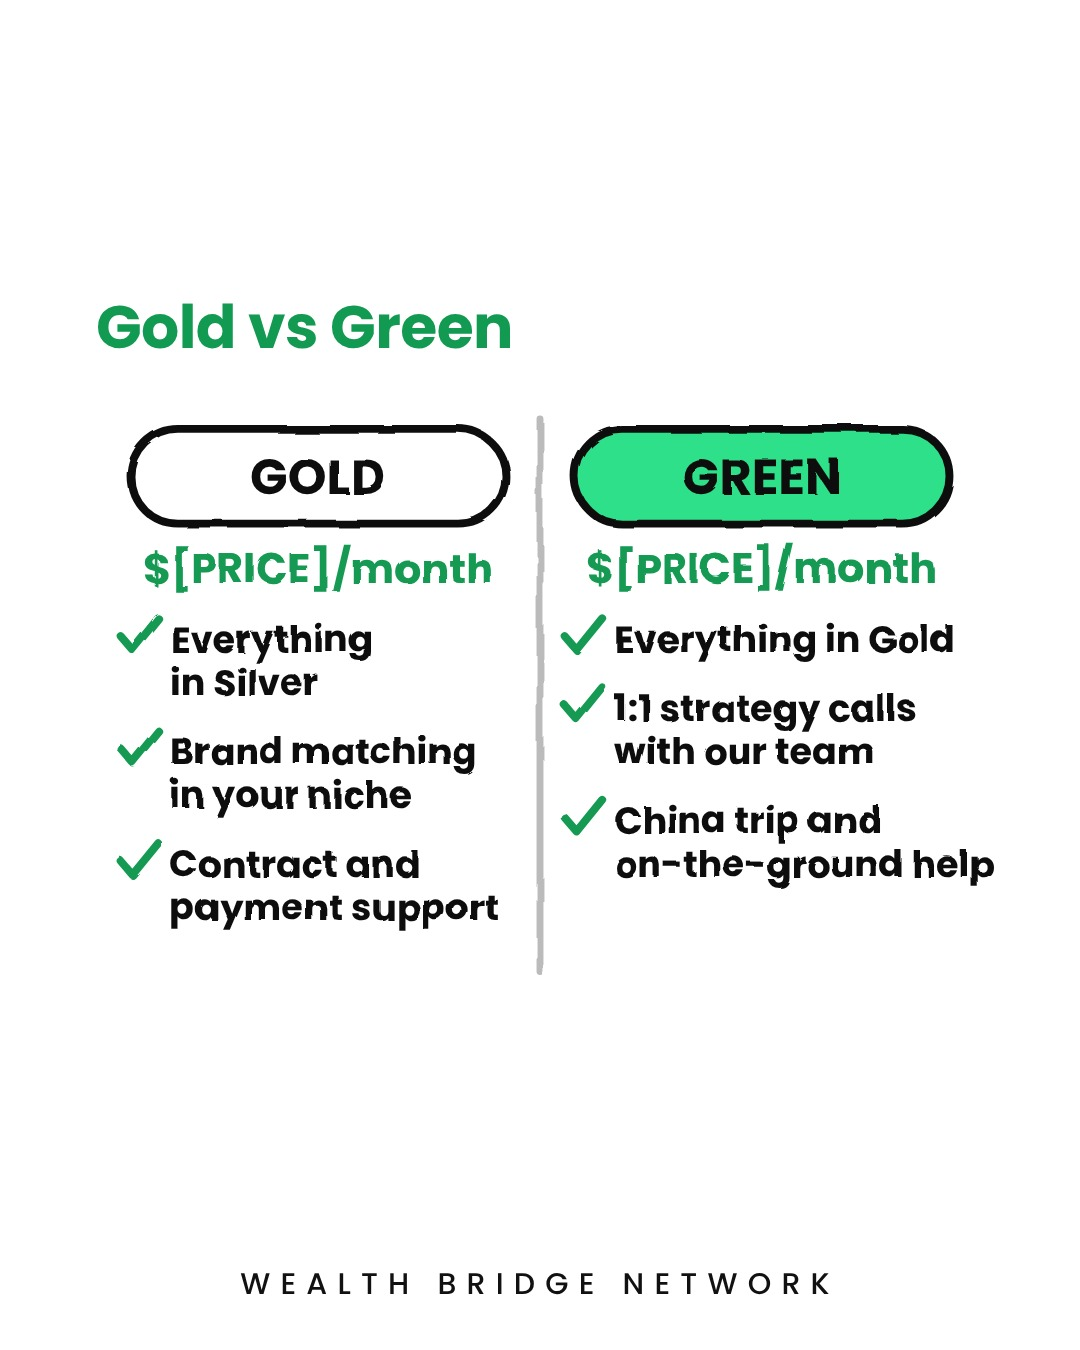
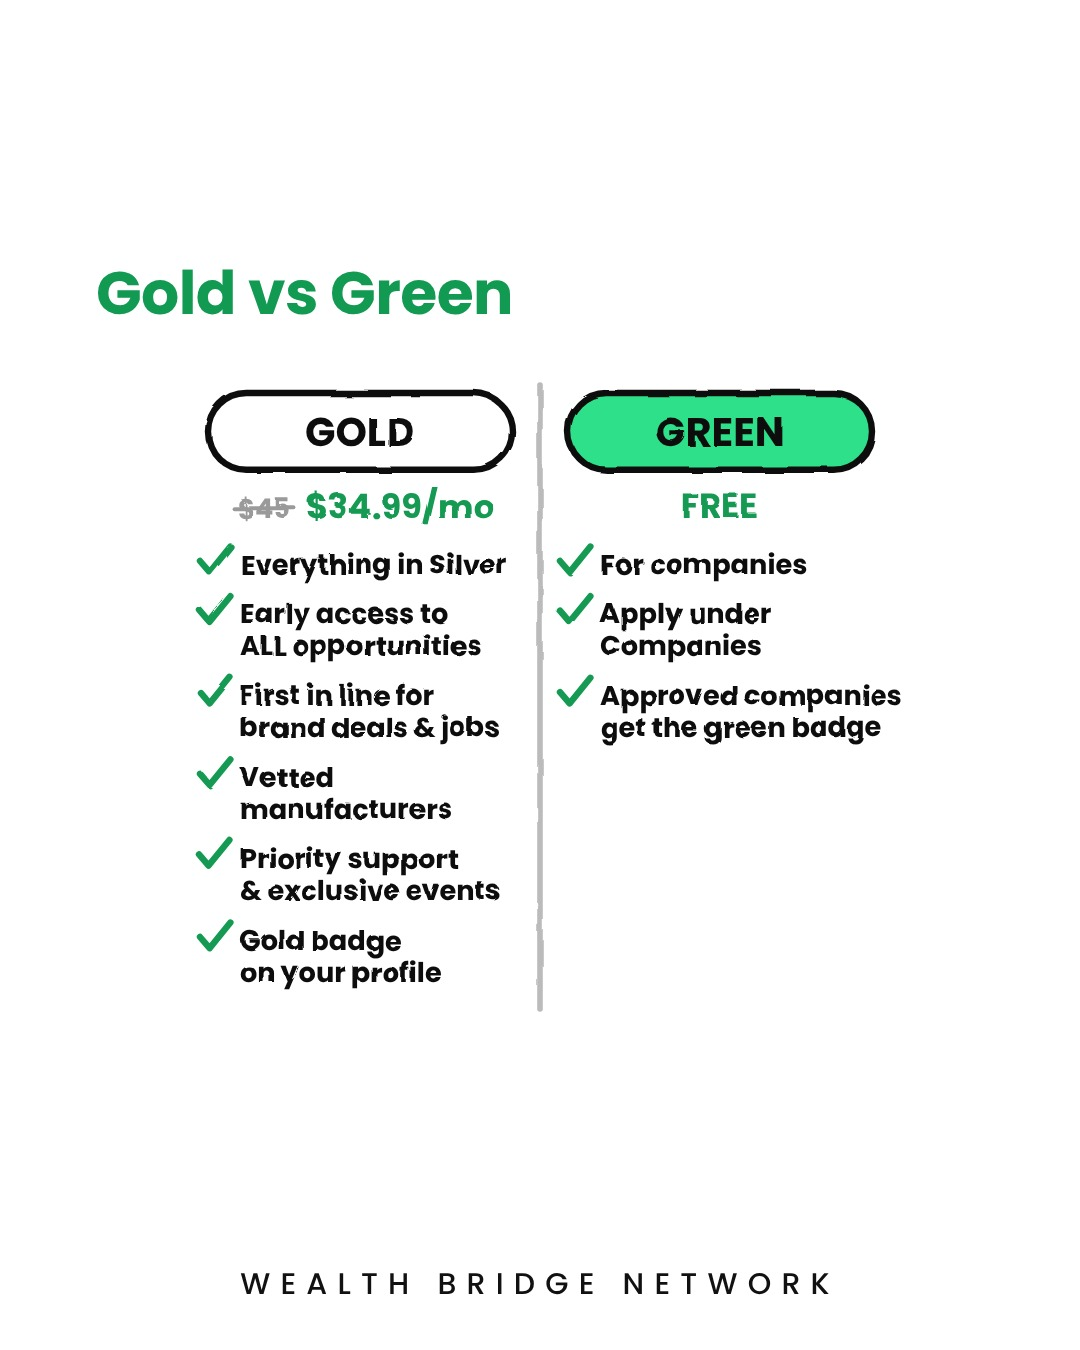
Membership carousel: real Silver/Gold prices and perks, Green for companies
Claude-Session: https://claude.ai/code/session_01XWHiAw1FC92SEhPtnn4Xv2

Changed region(s): [[0.0917, 0.1867, 0.9167, 0.7467], [0.4889, 0.7156, 0.5194, 0.7467]]

diff --git a/content/membership.py b/content/membership.py
@@ -1,5 +1,5 @@
 # Membership carousel (Free, Silver, Gold, Green) in the doodle storytelling format.
-# Split-screen slides compare two tiers side by side. DRAFT: prices/perks marked [PRICE] are placeholders.
+# Split-screen slides compare two tiers side by side. Prices/perks from admin.wbn.world/membership (Nov 27, 2026).
 # Render: python3 scripts/render_doodle.py content/membership.py $PWD/posts/
 import sys
 from pathlib import Path
@@ -12,30 +12,34 @@ from china_stories import caption, cta, G
 MINT = "#2FE08A"
 
 
-def column(cx, name, price, perks, fill="#fff"):
-    """One half of the split screen: tier pill, price, perk lines with check bullets."""
+def column(cx, name, price, perks, fill="#fff", old=None):
+    """One half of the split screen: tier pill, price (optional struck-out old price), perk lines."""
     b = f'<rect x="{cx-190}" y="10" width="380" height="96" rx="48" fill="{fill}" stroke="{INK}" stroke-width="8"/>'
     b += _t(cx, 76, name.upper(), 50, 900)
-    b += _t(cx, 166, price, 42, 800, G)
+    if old:
+        b += _t(cx - 120, 166, old, 34, 700, "#9A9A9A") + _p(f"M{cx-158},154 L{cx-82},154", 5, color="#9A9A9A")
+        b += _t(cx + 50, 166, price, 42, 800, G)
+    else:
+        b += _t(cx, 166, price, 42, 800, G)
     y = 236
     for p in perks:
         lines = p.split("\n")
         b += _p(f"M{cx-200},{y-16} l12,14 l26,-32", 8, color=G)
         for k, ln in enumerate(lines):
-            b += _t(cx - 150, y + 44 * k, ln, 37, 600, anchor="start")
-        y += 44 * len(lines) + 26
+            b += _t(cx - 150, y + 40 * k, ln, 34, 600, anchor="start")
+        y += 40 * len(lines) + 22
     return b
 
 
-def split(left, right, vh=580):
-    return (column(225, *left) + column(675, *right)
+def split(left, right, vh=800):
+    return (column(225, **left) + column(675, **right)
             + _p(f"M450,0 L450,{vh-20}", 7, color="#BBBBBB"))
 
 
 POSTS = [
 dict(id="m1-memberships", pillar="Membership", title="Which membership is right for you?",
  caption=caption("Free, Silver, Gold or Green: which Wealth Bridge membership is right for you?",
-                 "Start free with weekly China opportunities, or upgrade for priority review, brand matching, contract support and 1:1 help. Tap the link in bio to pick your tier.",
+                 "Silver ($12.99/mo): apartment listings, weekly newsletter, selected opportunities and member-only webinars. Gold ($34.99/mo): early access to ALL opportunities, first in line for brand deals and jobs, vetted manufacturers and priority support. Green: free for approved companies. Tap the link in bio to join.",
                  "#ugccreator #branddeals #creatoreconomy #membership"),
  slides=[
  dict(hook="Which\n*membership*\nis right\nfor you?", hs=124, swipe=True, kick="Free, Silver, Gold or Green. Here's the difference.",
@@ -43,13 +47,15 @@ dict(id="m1-memberships", pillar="Membership", title="Which membership is right 
       + _t(130, 360, "FREE", 38, 900) + _t(290, 280, "SILVER", 38, 900) + _t(450, 200, "GOLD", 38, 900) + _t(610, 120, "GREEN", 38, 900, G)
       + figure(790, 440, 0.85, "up", "grin", flip=True), vh=460),
  dict(head="Free *vs* Silver", hd=80,
-      scene=split(("Free", "$0 · forever", ["Weekly China\nopportunities", "Apply as a creator\nor athlete", "Community\nupdates"], MINT),
-                  ("Silver", "$[PRICE]/month", ["Everything in Free", "Priority application\nreview", "Monthly brand-deal\nlist"])), vh=580),
+      scene=split(dict(name="Free", price="$0", fill=MINT, perks=["Free account", "Follow weekly\nChina tips", "Upgrade\nany time"]),
+                  dict(name="Silver", price="$12.99/mo", old="$25", perks=["Apartment listings\n(maid, chef & nanny)", "Weekly newsletter\n& industry updates",
+                       "Access to selected\nopportunities", "Member-only\nweekly webinars", "Silver badge\non your profile"])), vh=800),
  dict(head="Gold *vs* Green", hd=80,
-      scene=split(("Gold", "$[PRICE]/month", ["Everything\nin Silver", "Brand matching\nin your niche", "Contract and\npayment support"]),
-                  ("Green", "$[PRICE]/month", ["Everything in Gold", "1:1 strategy calls\nwith our team", "China trip and\non-the-ground help"], MINT)), vh=580),
- dict(head="How to join:", items=["Tap the *link in bio*", "Choose *Free, Silver, Gold or Green*", "Our team *emails your next steps*"], **{"is": 52},
-      text=["Start free. *Upgrade any time.*"], fs=46,
+      scene=split(dict(name="Gold", price="$34.99/mo", old="$45", perks=["Everything in Silver", "Early access to\nALL opportunities",
+                       "First in line for\nbrand deals & jobs", "Vetted\nmanufacturers", "Priority support\n& exclusive events",
+                       "Gold badge\non your profile"]),
+                  dict(name="Green", price="FREE", fill=MINT, perks=["For companies", "Apply under\nCompanies", "Approved companies\nget the green badge"]), vh=800), vh=800),
+ dict(head="How to join:", items=["Tap the *link in bio*", "Sign up *free*", "Upgrade to *Silver* or *Gold* any time", "Companies: apply for *Green*"], **{"is": 50},
       scene=ground(60, 840, 360) + phone(200, 360, 0.8, "JOIN") + arrow(310, 220, 420, 220, -60) + check(540, 200, 1.1, True)
       + figure(740, 360, 0.85, "up", "grin", flip=True), vh=380),
  cta("Ready to cross the bridge?"),
